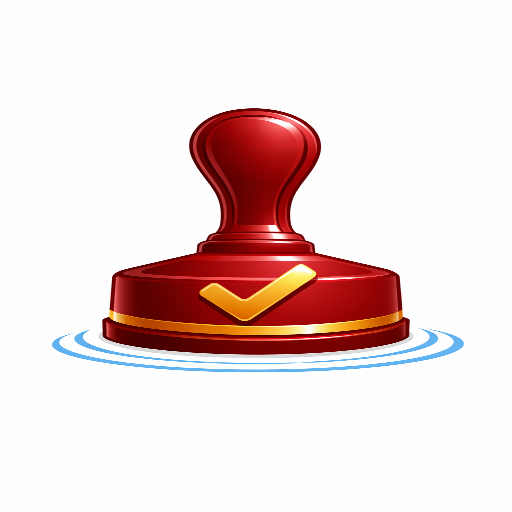
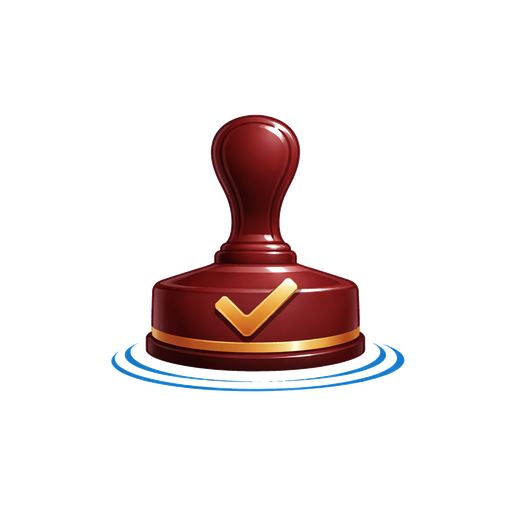
Nuevo icono de la app + assets PWA con fondo maskable navy
Reemplazado public/icon-512.png por el nuevo sello burdeos y regenerados los
assets PWA con @vite-pwa/assets-generator. El icono maskable y el apple-touch
usan fondo navy solido #0D1B4B (verificado a nivel de pixel: opaco, sin alfa);
el icono purpose=any mantiene transparencia. Manifest: background_color y
theme_color = #0D1B4B, coherentes con el icono.

Changed region(s): [[0.0938, 0.1875, 0.9062, 0.7812]]

diff --git a/pwa-assets.config.ts b/pwa-assets.config.ts
@@ -3,10 +3,31 @@ import {
   minimal2023Preset,
 } from "@vite-pwa/assets-generator/config";
 
-// Genera los iconos PWA (incluido el maskable) a partir del logo cuadrado.
+// Fondo navy sólido de la marca (#0D1B4B) para el icono maskable y el
+// apple-touch, en vez del blanco por defecto del preset. Coherente con el
+// theme_color y el background_color del manifest.
+const NAVY = "#0D1B4B";
+
+// Genera los iconos PWA a partir del logo cuadrado (public/icon-512.png).
 // Salida en public/: pwa-64x64.png, pwa-192x192.png, pwa-512x512.png,
 // maskable-icon-512x512.png, apple-touch-icon-180x180.png
 export default defineConfig({
-  preset: minimal2023Preset,
+  preset: {
+    ...minimal2023Preset,
+    maskable: {
+      ...minimal2023Preset.maskable,
+      resizeOptions: {
+        ...minimal2023Preset.maskable.resizeOptions,
+        background: NAVY,
+      },
+    },
+    apple: {
+      ...minimal2023Preset.apple,
+      resizeOptions: {
+        ...minimal2023Preset.apple.resizeOptions,
+        background: NAVY,
+      },
+    },
+  },
   images: ["public/icon-512.png"],
 });

diff --git a/vite.config.ts b/vite.config.ts
@@ -23,7 +23,7 @@ export default defineConfig({
         scope: "/",
         display: "standalone",
         orientation: "portrait",
-        background_color: "#F6F7F9",
+        background_color: "#0D1B4B",
         theme_color: "#0D1B4B",
         lang: "es",
         dir: "ltr",
